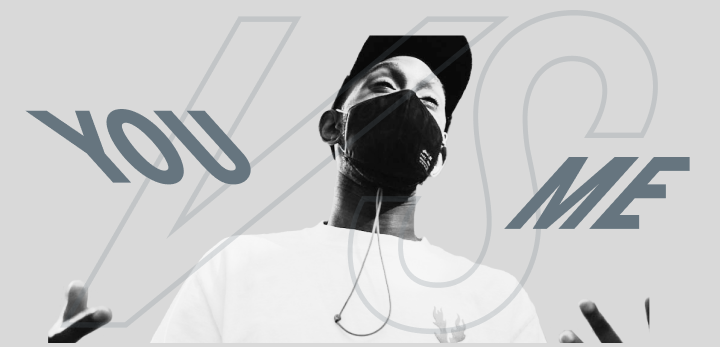
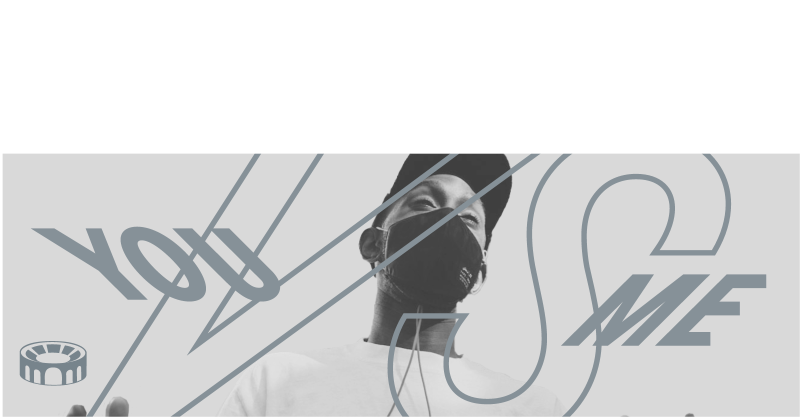
modified page.tsx

diff --git a/app/og/stake/frame_3/route.tsx b/app/og/stake/frame_3/route.tsx
@@ -1,0 +1,56 @@
+/* eslint-disable @next/next/no-img-element  */
+// @ts-nocheck
+import { ImageResponse } from 'next/og'
+
+export const runtime = 'edge';
+
+export async function GET(req: Request) {
+
+    
+   return await ogImgNoQueryParams()
+}
+
+async function ogImgNoQueryParams(): ImageResponse {
+    const ImgNoQueryParams = await fetch(new URL('../../../../public/ogImgNoQueryParams.png', import.meta.url)).then(
+        (res) => res.arrayBuffer(),
+      );
+    return new ImageResponse(
+        (
+            <div style={{position: 'relative', display: 'flex'}}>
+                      <img tw='h-full' alt='image used for no query params' src={ImgNoQueryParams}/>
+            </div>
+        )
+    )
+}
+
+async function ogImgWithQueryParams(stakeAmountWithToken: string): ImageResponse {
+    const ogImgWithQueryParams = await fetch(new URL('../../../../public/ogImgWithQueryParams.png', import.meta.url)).then(
+        (res) => res.arrayBuffer(),
+      );
+      const fontData = await fetch(
+        new URL('../../../../assets/TitilliumWeb-Italic.ttf', import.meta.url),
+      ).then((res) => res.arrayBuffer());
+    return new ImageResponse(
+        (
+            <div style={{position: 'relative', display: 'flex'}}>
+                      <img tw='h-full' alt='image used for no query params' src={ogImgWithQueryParams}/>
+                        <div 
+                            style={{display: 'flex', position: 'absolute', top: '65%', left: '50%', transform: 'translate(-50%, -50%)', textAlign: 'center', color: '#66757F', fontSize: '72px', fontWeight: '1200', fontFamily: '"Titillium Web"'}}
+                        > 
+                        <div>SUCCESSFULLY STAKED</div>
+                        </div>
+            </div>
+        ),
+        {
+            fonts: [
+                {
+                    name: 'Titillium Web',
+                    data: fontData,
+                    style: 'italic',
+                    weight: 900
+                }
+            ]
+        }
+    )
+}
+

diff --git a/app/api/stake/frame_2/route.ts b/app/api/stake/frame_2/route.ts
@@ -19,7 +19,7 @@ async function getResponse(req: NextRequest): Promise<NextResponse> {
   
   let queryParams = `gameId=${gameId}&&gameName=${gameName}&&gameSetup=${gameSetup}&&stakeAmount=${stakeAmount}&&creatorFid=${creatorFid}`
   const framesUrl = "https://versus-frame.vercel.app"; 
-  let imageUrl = new URL("/og/landing", framesUrl).href
+  let imageUrl = new URL("/og/stake/frame_2", framesUrl).href
 
   let postUrl = new URL(`/api/stake/frame_3?${queryParams}`, framesUrl).href
 

diff --git a/app/api/stake/frame_3/route.ts b/app/api/stake/frame_3/route.ts
@@ -19,7 +19,7 @@ async function getResponse(req: NextRequest): Promise<NextResponse> {
   
   let queryParams = `gameId=${gameId}&&gameName=${gameName}&&gameSetup=${gameSetup}&&stakeAmount=${stakeAmount}&&creatorFid=${creatorFid}`
   const FRAMES_URL = "https://versus-frame.vercel.app"; 
-  let imageUrl = new URL("/og/landing", FRAMES_URL).href
+  let imageUrl = new URL("/og/stake/frame_3", FRAMES_URL).href
 
   let postUrl = "https://wag3r-bot-gamma.vercel.app/?" + `${queryParams}`
 
